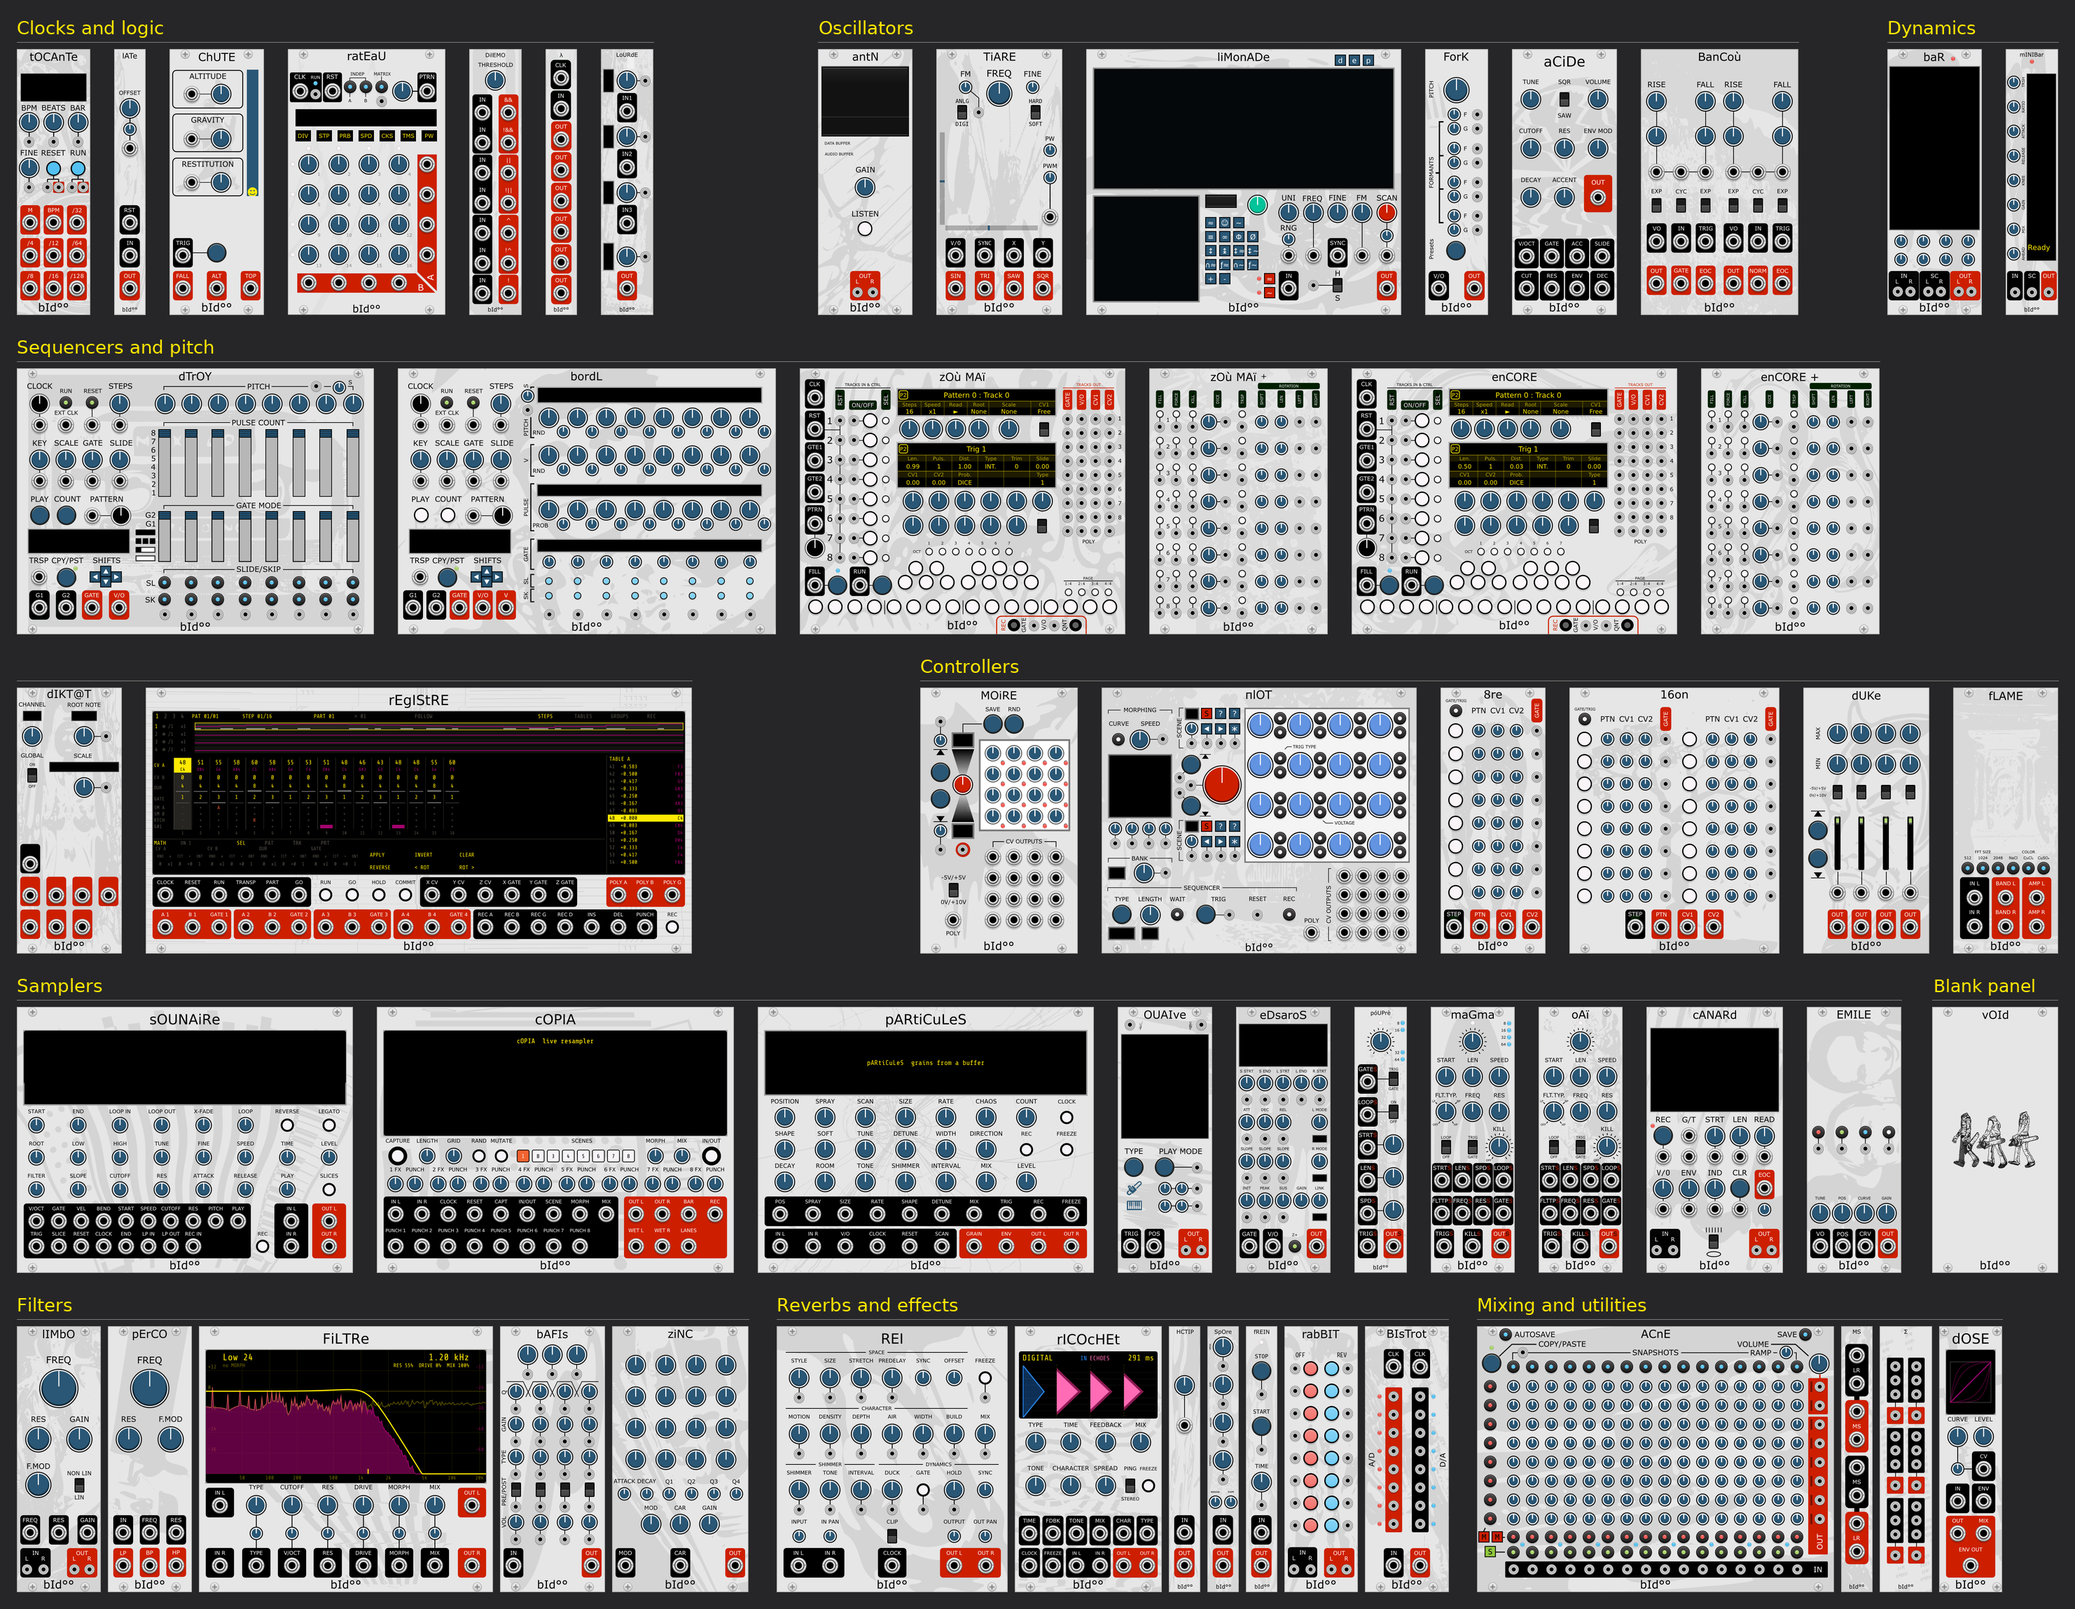
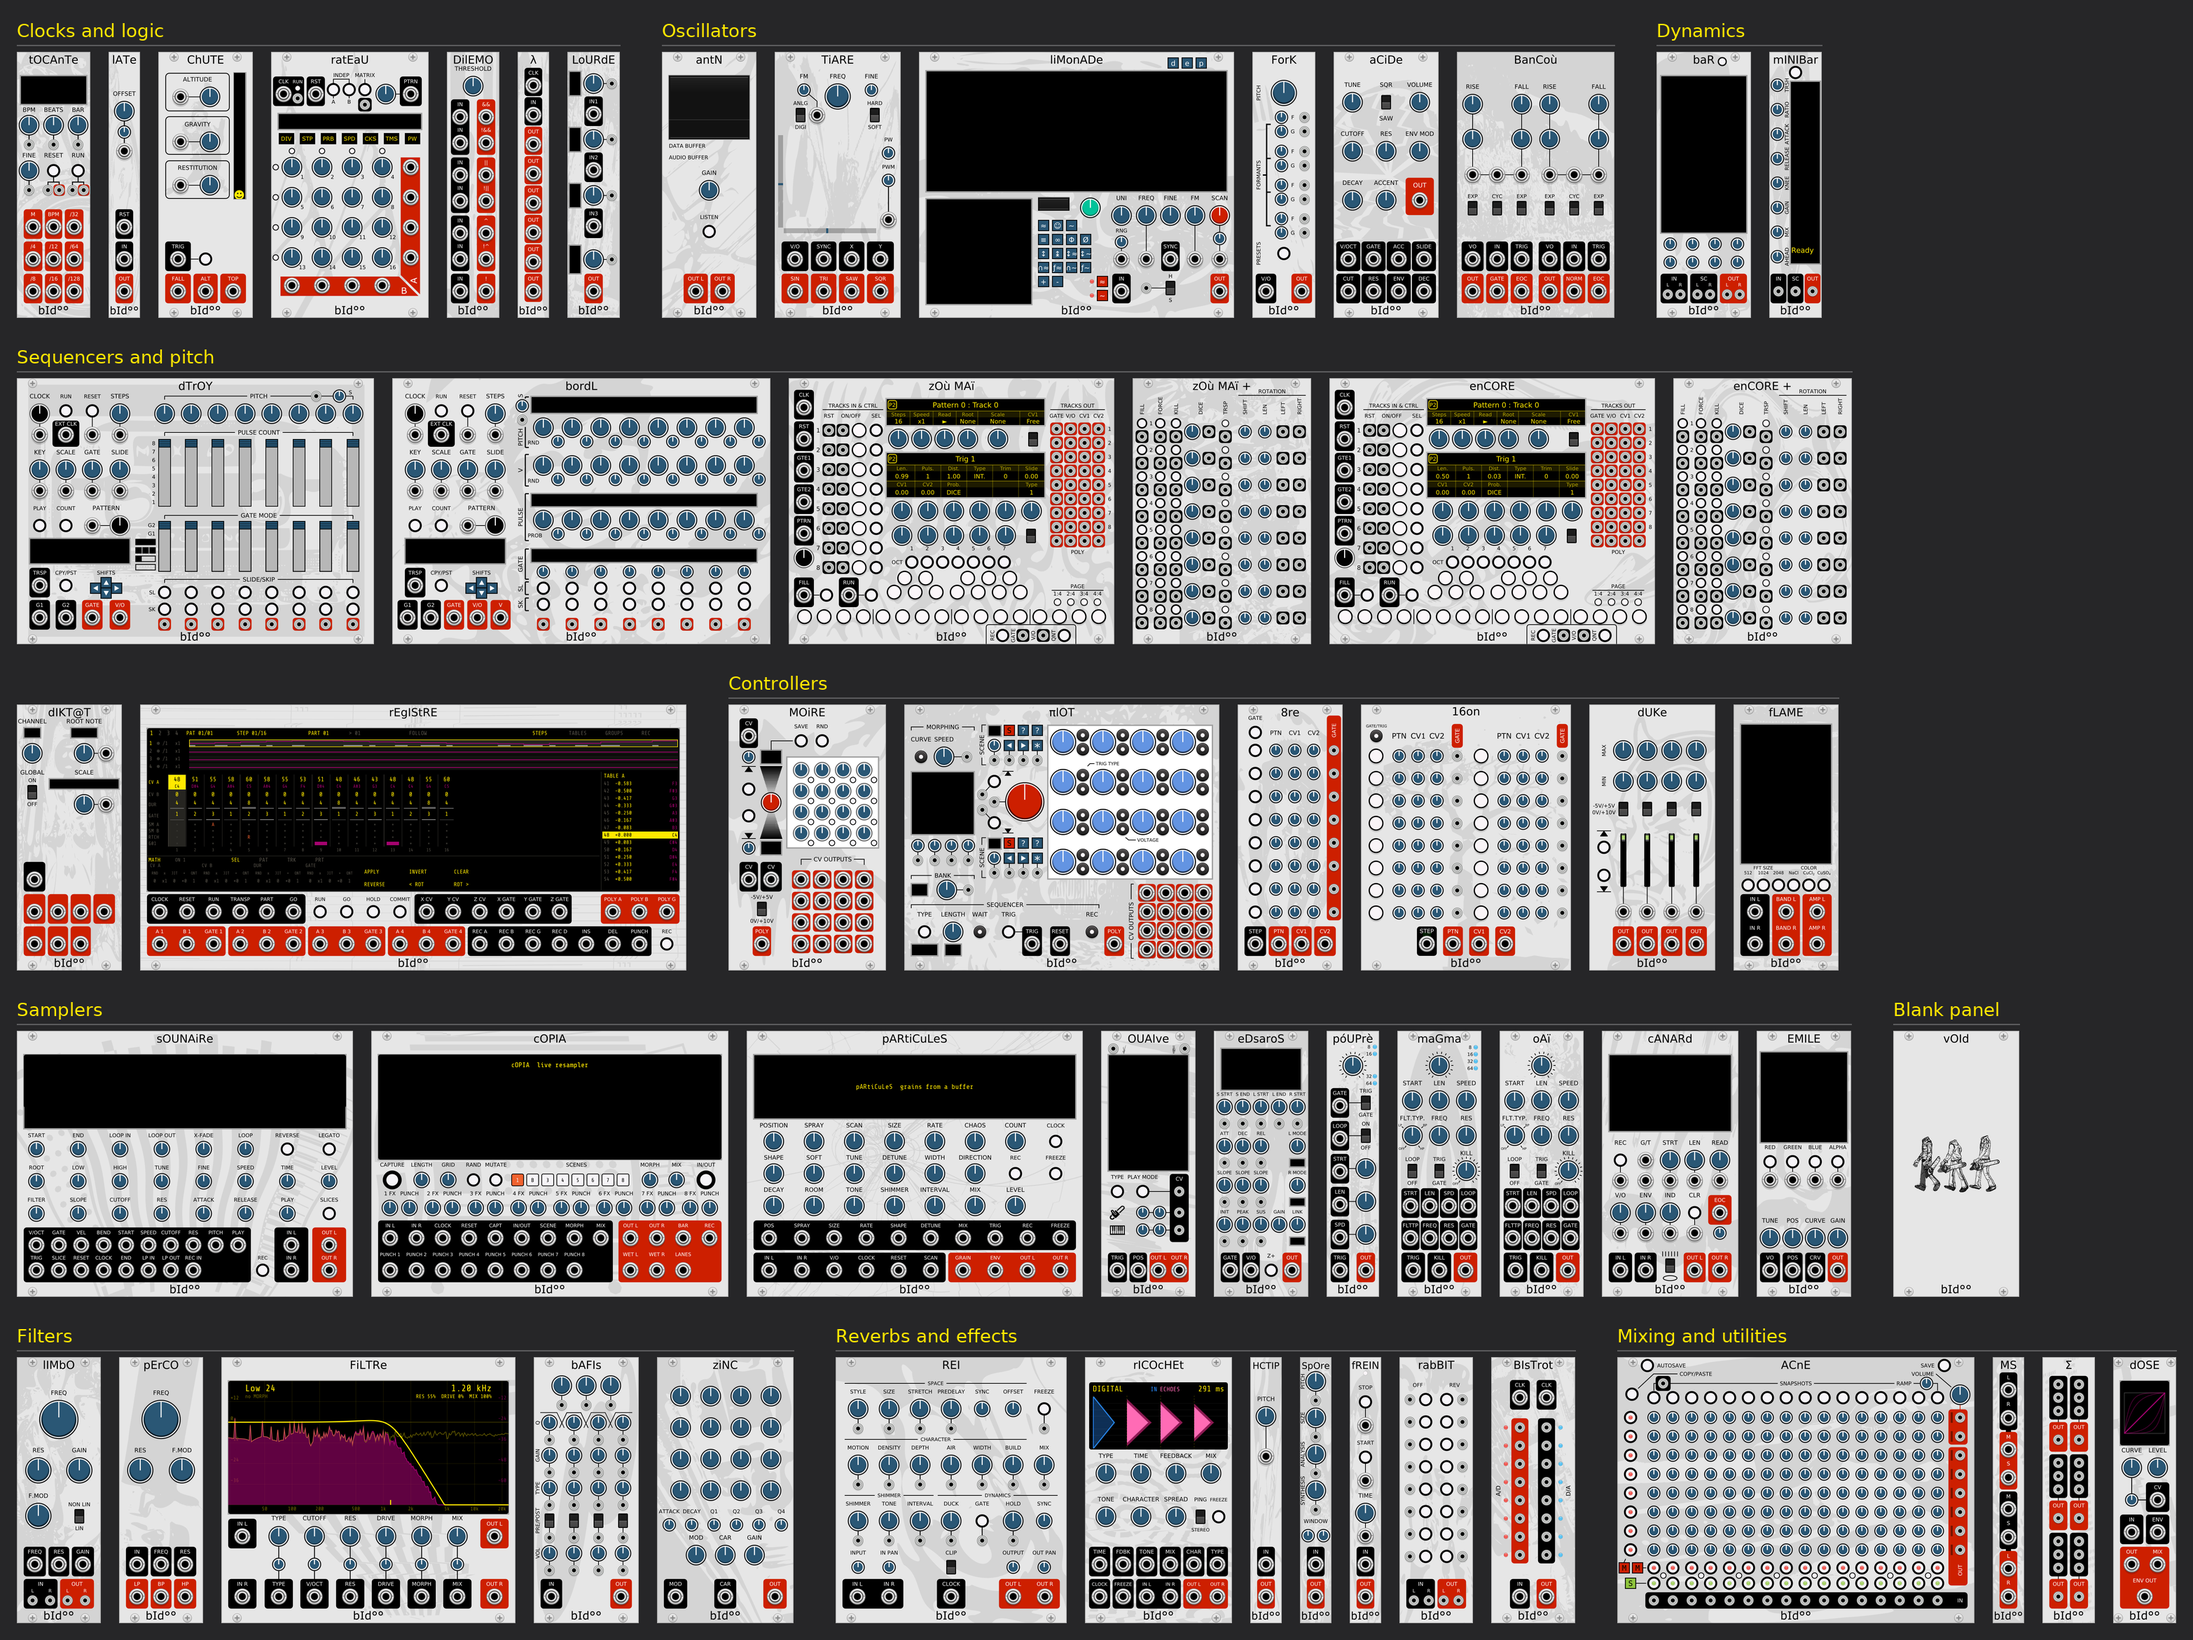
README picture from the new panels; antN's LISTEN blinks while it waits
docs/modules.png is redrawn from Rack's renders of the migrated panels by tools/readme_picture.py
(new): the same families and headings as before, the layout in ROWS; it stops if a module of
plugin.json is missing from it.

antN: the LISTEN button (a BidooRoundButton since the migration lost the old light's colours)
is lit while the radio plays and blinks while it waits for the network (connecting, filling the
buffer, the buffer running low), from the states the old light showed; off when stopped or after
a failure, which the screen's status line names.

Checked: make dist; module_harness on antN, 0 failures.

diff --git a/tools/readme_picture.py b/tools/readme_picture.py
@@ -1,0 +1,81 @@
+# The README's picture of every module (docs/modules.png), grouped by family, from Rack's own renders.
+#   1. make dist, then render the modules: put the .vcvplugin in <folder>/plugins-win-x64 and run
+#      "C:/Program Files/VCV/Rack2Pro/Rack.exe" -t 2 -u <folder>     (screenshots at 2x in <folder>/screenshots/Bidoo)
+#   2. python tools/readme_picture.py <folder>/screenshots/Bidoo
+# The rows and families are below; a module missing from them is an error, so a new module can't be left out.
+import os, sys
+from PIL import Image, ImageDraw, ImageFont
+
+ROOT = os.path.normpath(os.path.join(os.path.dirname(os.path.abspath(__file__)), ".."))
+BACKGROUND = (38, 38, 40)
+HEADING = (255, 233, 0)            # the screens' yellow
+RULE = (90, 90, 92)
+PANEL_H = 380                      # a panel's height in the picture (Rack px at 100 %)
+GAP, SECTION_GAP, MARGIN = 26, 60, 24
+HEADING_SIZE, HEADING_ROOM = 26, 50
+
+# Each row: its families, left to right; a family: (heading or None to go on under the previous one, model slugs)
+ROWS = [
+	[("Clocks and logic", ["tOCAnTe", "lATe", "ChUTE", "RATEAU", "DilEMO", "lambda", "LoURdE"]),
+	 ("Oscillators", ["antN", "TiARE", "liMonADe", "ForK", "ACIDE", "BanCau"]),
+	 ("Dynamics", ["baR", "mINIBar"])],
+	[("Sequencers and pitch", ["dTrOY", "bordL", "ZOUMAI", "ZOUMAI-Expander", "ENCORE", "ENCORE-Expander"])],
+	[(None, ["DIKTAT", "REGISTRE"]),
+	 ("Controllers", ["MOiRE", "PILOT", "HUITre", "SAISON", "dUKe", "fLAME"])],
+	[("Samplers", ["SOUNAIRE", "COPIA", "PARTICULES", "OUAIve", "eDsaroS", "POUPRE", "MAGMA", "OAI", "cANARd", "EMILE"]),
+	 ("Blank panel", ["VOID"])],
+	[("Filters", ["lIMbO", "pErCO", "FILTRE", "BAFIS", "ziNC"]),
+	 ("Reverbs and effects", ["REI", "RICOCHET", "HCTIP", "SPORE", "FREIN", "rabBIT", "BISTROT"]),
+	 ("Mixing and utilities", ["ACnE", "MS", "SIGMA", "DOSE"])],
+]
+
+def font():
+	for d in (os.environ.get("RACK_DIR", ""), "C:/Program Files/VCV/Rack2Pro", "G:/RackV2"):
+		p = os.path.join(d, "res", "fonts", "DejaVuSans.ttf")
+		if d and os.path.isfile(p):
+			return ImageFont.truetype(p, HEADING_SIZE)
+	sys.exit("DejaVuSans.ttf not found")
+
+def main(shots):
+	plugin = __import__("json").load(open(os.path.join(ROOT, "plugin.json"), encoding="utf-8"))
+	slugs = [m["slug"] for m in plugin["modules"]]
+	listed = [s for row in ROWS for _, mods in row for s in mods]
+	missing = [s for s in slugs if s not in listed]
+	unknown = [s for s in listed if s not in slugs]
+	if missing or unknown:
+		sys.exit("modules missing from ROWS: %s; unknown in ROWS: %s" % (missing, unknown))
+	panels = {}
+	for s in listed:
+		im = Image.open(os.path.join(shots, s + ".png")).convert("RGB")
+		panels[s] = im.resize((round(im.width * PANEL_H / im.height), PANEL_H), Image.LANCZOS)
+	# lay out each row: families side by side, a family's panels GAP apart, families SECTION_GAP apart
+	layout, y, width = [], MARGIN, 0
+	for row in ROWS:
+		x = MARGIN
+		for title, mods in row:
+			x0 = x
+			for s in mods:
+				layout.append((s, x, y + HEADING_ROOM))
+				x += panels[s].width + GAP
+			if title:
+				layout.append((("heading", title, x - GAP), x0, y))
+			x += SECTION_GAP - GAP
+		width = max(width, x - SECTION_GAP + MARGIN)
+		y += HEADING_ROOM + PANEL_H + 36
+	height = y - 36 + MARGIN
+	sheet = Image.new("RGB", (width, height), BACKGROUND)
+	d = ImageDraw.Draw(sheet)
+	f = font()
+	for item, x, yy in layout:
+		if isinstance(item, tuple):
+			_, title, x1 = item
+			d.text((x, yy + 4), title, font=f, fill=HEADING)
+			d.line((x, yy + HEADING_ROOM - 10, x1, yy + HEADING_ROOM - 10), fill=RULE, width=2)
+		else:
+			sheet.paste(panels[item], (x, yy))
+	out = os.path.join(ROOT, "docs", "modules.png")
+	sheet.save(out, optimize=True)
+	print("wrote", out, sheet.size)
+
+if __name__ == "__main__":
+	main(sys.argv[1])

diff --git a/src/ANTN.cpp b/src/ANTN.cpp
@@ -261,6 +261,9 @@ struct ANTN : BidooModule {
   uint32_t gen = 0;
   bool buffered = false;
   float blinkPhase = 0.f;
+  // LISTEN's light, for the UI: on while it plays, blinking while it waits for the network (connecting, filling the
+  // buffer, or the buffer running low), off when stopped or after a failure (the screen says which)
+  std::atomic<bool> listenLit{false};
   // Declicking: a 5 ms fade in when the audio starts or comes back, a 5 ms fade
   // out on stop (on the frames still buffered), at the end of the stream and on
   // an underrun (on the last frame held); the gain knob glides over 5 ms.
@@ -1020,6 +1023,8 @@ void ANTN::process(const ProcessArgs &args) {
   lights[ON_LIGHT].setBrightness(playing ? 0.f : (failedNow && blinkPhase >= 0.5f ? 0.f : 1.f));
   lights[ON_LIGHT+1].setBrightness((playing && !buffered) || low ? 1.f : 0.f);
   lights[ON_LIGHT+2].setBrightness(buffered ? 1.f : 0.f);
+  const bool waiting = playing && (!buffered || low);
+  listenLit = playing && (!waiting || blinkPhase < 0.5f);
 }
 
 struct ANTNTextField : LedDisplayTextField {
@@ -1163,7 +1168,7 @@ struct ANTNWidget : BidooWidget {
 		addParam(theme::param<BidooBlueKnob>(gain, module, ANTN::GAIN_PARAM));
 		BidooRoundButton *listenButton = theme::param<BidooRoundButton>(listen, module, ANTN::TRIG_PARAM);
 		listenButton->momentary = true;
-		listenButton->litBy = [=]() { return module && module->playing; };
+		listenButton->litBy = [=]() { return module && module->listenLit.load(); };   // steady: playing; blinking: waiting
 		addParam(listenButton);
 
 		// The stereo out: full jacks, one box each, half a column in from the outer columns of three (antn.py N)

diff --git a/changelog.md b/changelog.md
@@ -3,6 +3,7 @@ Back
 - enCORE and the enCORE Expander are back in the module browser: patches that use them open and play as before (2.7.8 opened them without these modules). zOù MAï's Fast clock mode stays, for those who prefer zOù MAï's grid
 Improvements
 - Every panel is now drawn by a script (tools/panels), the older ones migrated from their hand-drawn panels keeping their arrangement and picture: one box per jack (inputs black, outputs red), the theme's type, title and logo, buttons as round buttons lit orange where a light showed a state, screens drawn by the panel, full jacks where they fit; rATEAU keeps its red L of outputs
+- antN: LISTEN is lit while the radio plays and blinks while it waits for the network (connecting, filling the buffer, or the buffer running low); off when stopped or after a failure, which the screen names
 - Factory presets for aCiDe, rICOcHEt, baR, bAFIs, ziNC, lIMbO, SPORE and TiARE, five each (right-click > Preset): from a classic squelch, a dub delay, a drum bus glue or a robot voice to a skewed LFO. They are written by scripts in tools/presets, and tools/tests/check_presets.py now checks every module's presets
 - The titles of aCiDe, cOPIA, dOSE, FiLTRe, pARtiCuLeS, rEgIStRE, REI, rICOcHEt and sOUNAiRe sit at the height and size of the other modules' (16 px, baseline 16.875): they were lower and larger
 - ziNC: the band knobs' tint follows each band's envelope (what moves the carrier, with ATTACK and DECAY) in dB, from -48 dB (blue) to -6 dB (red), so a 5 V signal colours them without pushing MOD; the tint goes straight from the knob's blue to the red of the output boxes
